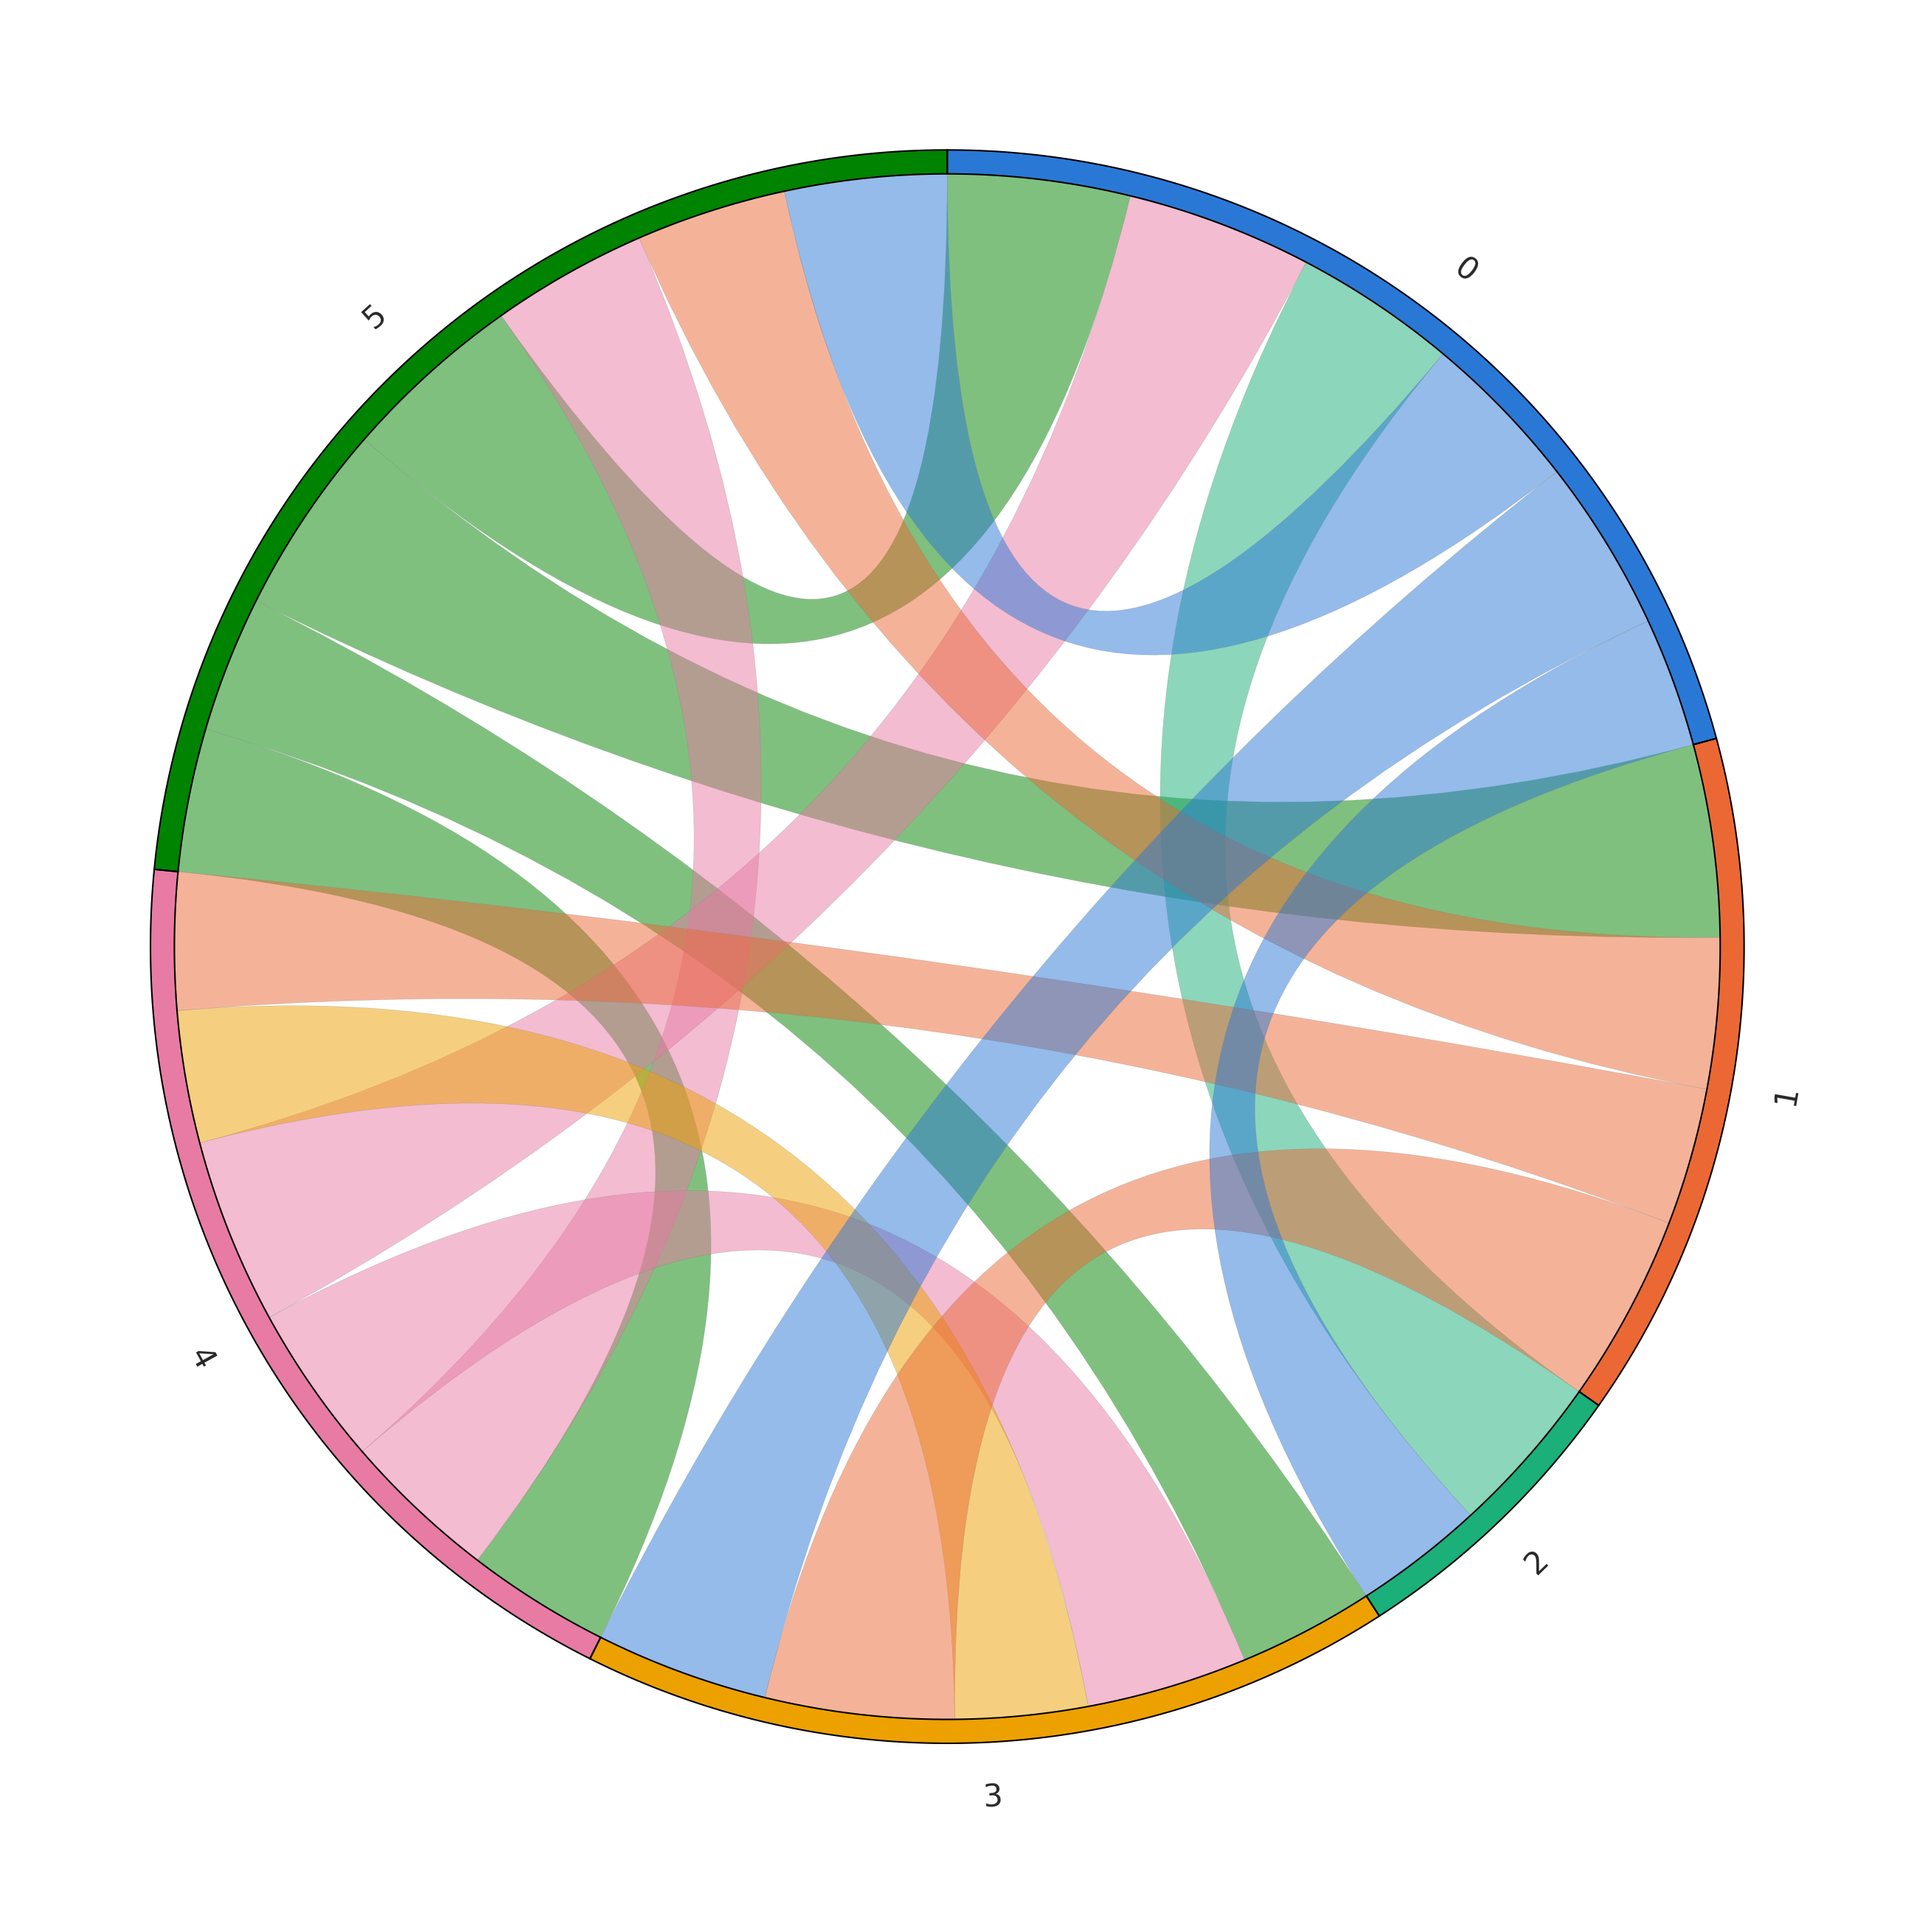
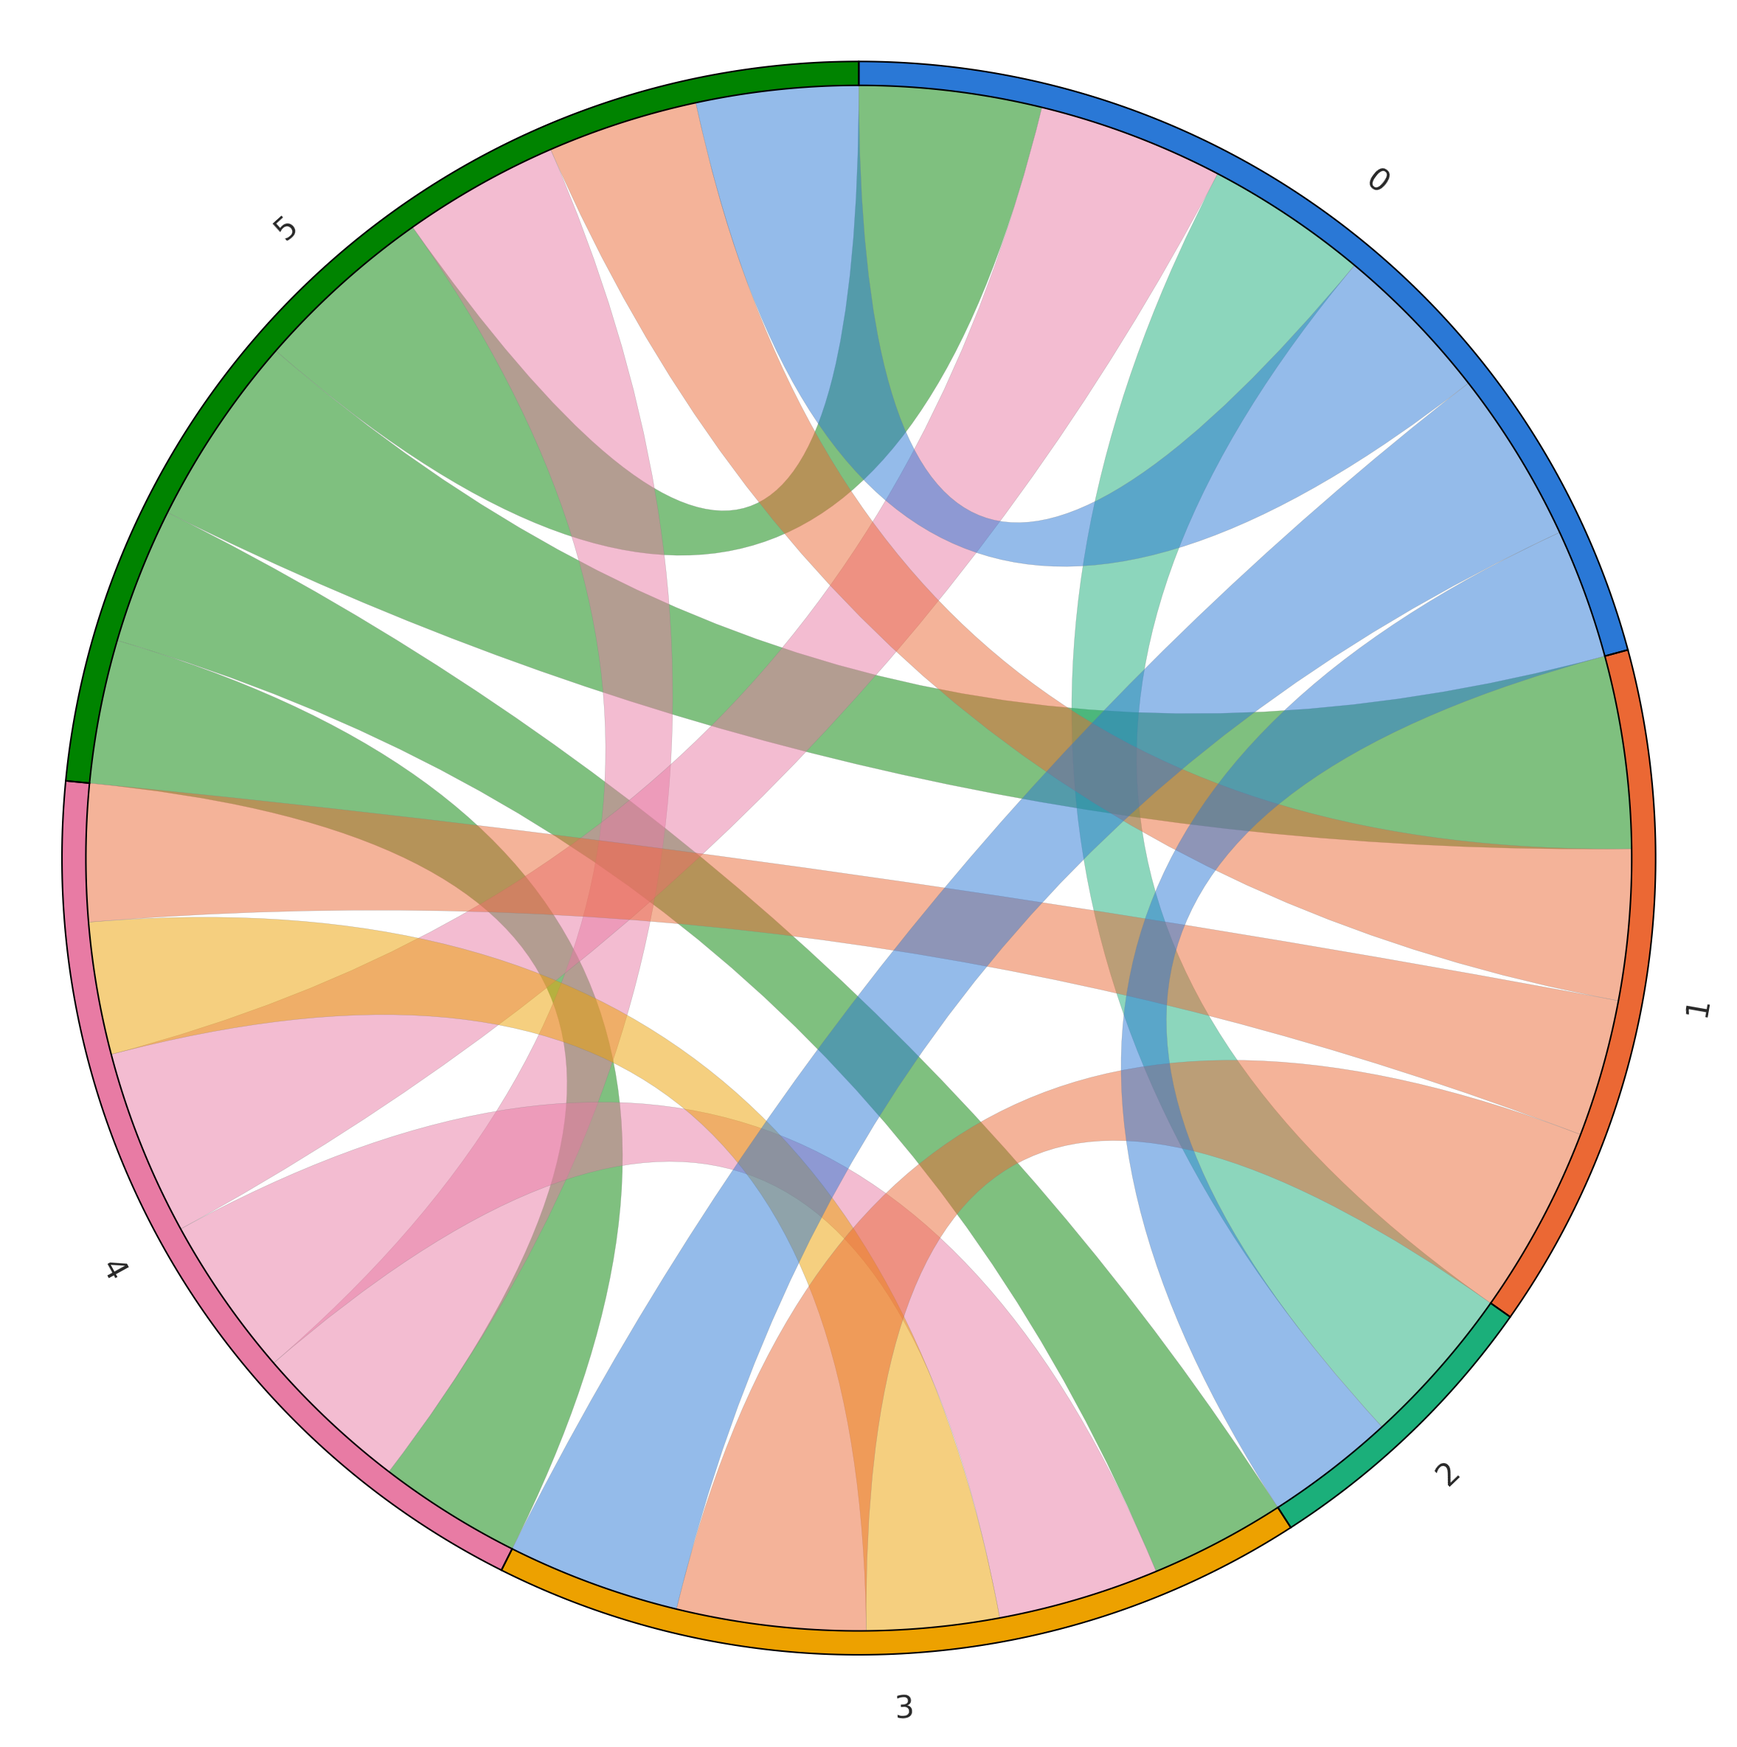
fix(ccc-viz): chord margins depended on whether pycirclize had been imported earlier
pycirclize rewrites matplotlib's savefig settings (pad_inches 0.5) when first imported, so the
first chord in a process was saved with wide margins and later ones were not. The import is now
contained, so every chord uses the theme's margins. The chord baseline is re-saved (whitespace only).

diff --git a/tests/test_ccc_viz_plots.py b/tests/test_ccc_viz_plots.py
@@ -1262,3 +1262,27 @@ def test_sender_ligand_dotplot_empty_guarded():
 
     assert isinstance(sender_ligand_dotplot(pd.DataFrame()), Figure)
     assert isinstance(sender_ligand_dotplot(None), Figure)
+
+
+def test_drawing_a_chord_never_changes_matplotlibs_save_settings():
+    """pycirclize rewrites savefig.pad_inches (and others) when it is first imported.
+
+    Left alone, whichever figure imports it first is saved with wide margins and every later
+    one is not, so a chord's margins would depend on what ran before it.
+    """
+    import sys
+
+    import matplotlib as mpl
+
+    from cellquorum.stages.cell_cell_communication.viz._plots import chord_diagram
+
+    for name in [m for m in sys.modules if m == "pycirclize" or m.startswith("pycirclize.")]:
+        del sys.modules[name]  # force the first-import path again
+    mpl.rcParams["savefig.pad_inches"] = 0.1
+    mpl.rcParams["savefig.bbox"] = "tight"
+    before = (mpl.rcParams["savefig.pad_inches"], mpl.rcParams["savefig.bbox"])
+    edges = pd.DataFrame(
+        {"source": ["A", "B", "C"], "target": ["B", "C", "A"], "weight": [1.0, 0.8, 0.6]}
+    )
+    chord_diagram(edges, palette={"A": "#1f77b4", "B": "#ff7f0e", "C": "#2ca02c"}, top_k=5)
+    assert (mpl.rcParams["savefig.pad_inches"], mpl.rcParams["savefig.bbox"]) == before

diff --git a/src/cellquorum/stages/cell_cell_communication/viz/_plots.py b/src/cellquorum/stages/cell_cell_communication/viz/_plots.py
@@ -10,6 +10,7 @@ from __future__ import annotations
 
 from collections.abc import Callable
 
+import matplotlib as mpl
 import matplotlib.patheffects as pe
 import matplotlib.pyplot as plt
 import networkx as nx
@@ -1138,7 +1139,10 @@ def chord_diagram(
     if edges.empty:
         return empty_figure()
     try:
-        from pycirclize import Circos  # noqa: F401
+        # pycirclize rewrites matplotlib's savefig settings when it is first imported. Contain
+        # that, so a chord's margins never depend on whether an earlier figure imported it.
+        with mpl.rc_context():
+            from pycirclize import Circos  # noqa: F401
 
         matrix = edges.pivot_table(
             index=source_col,
